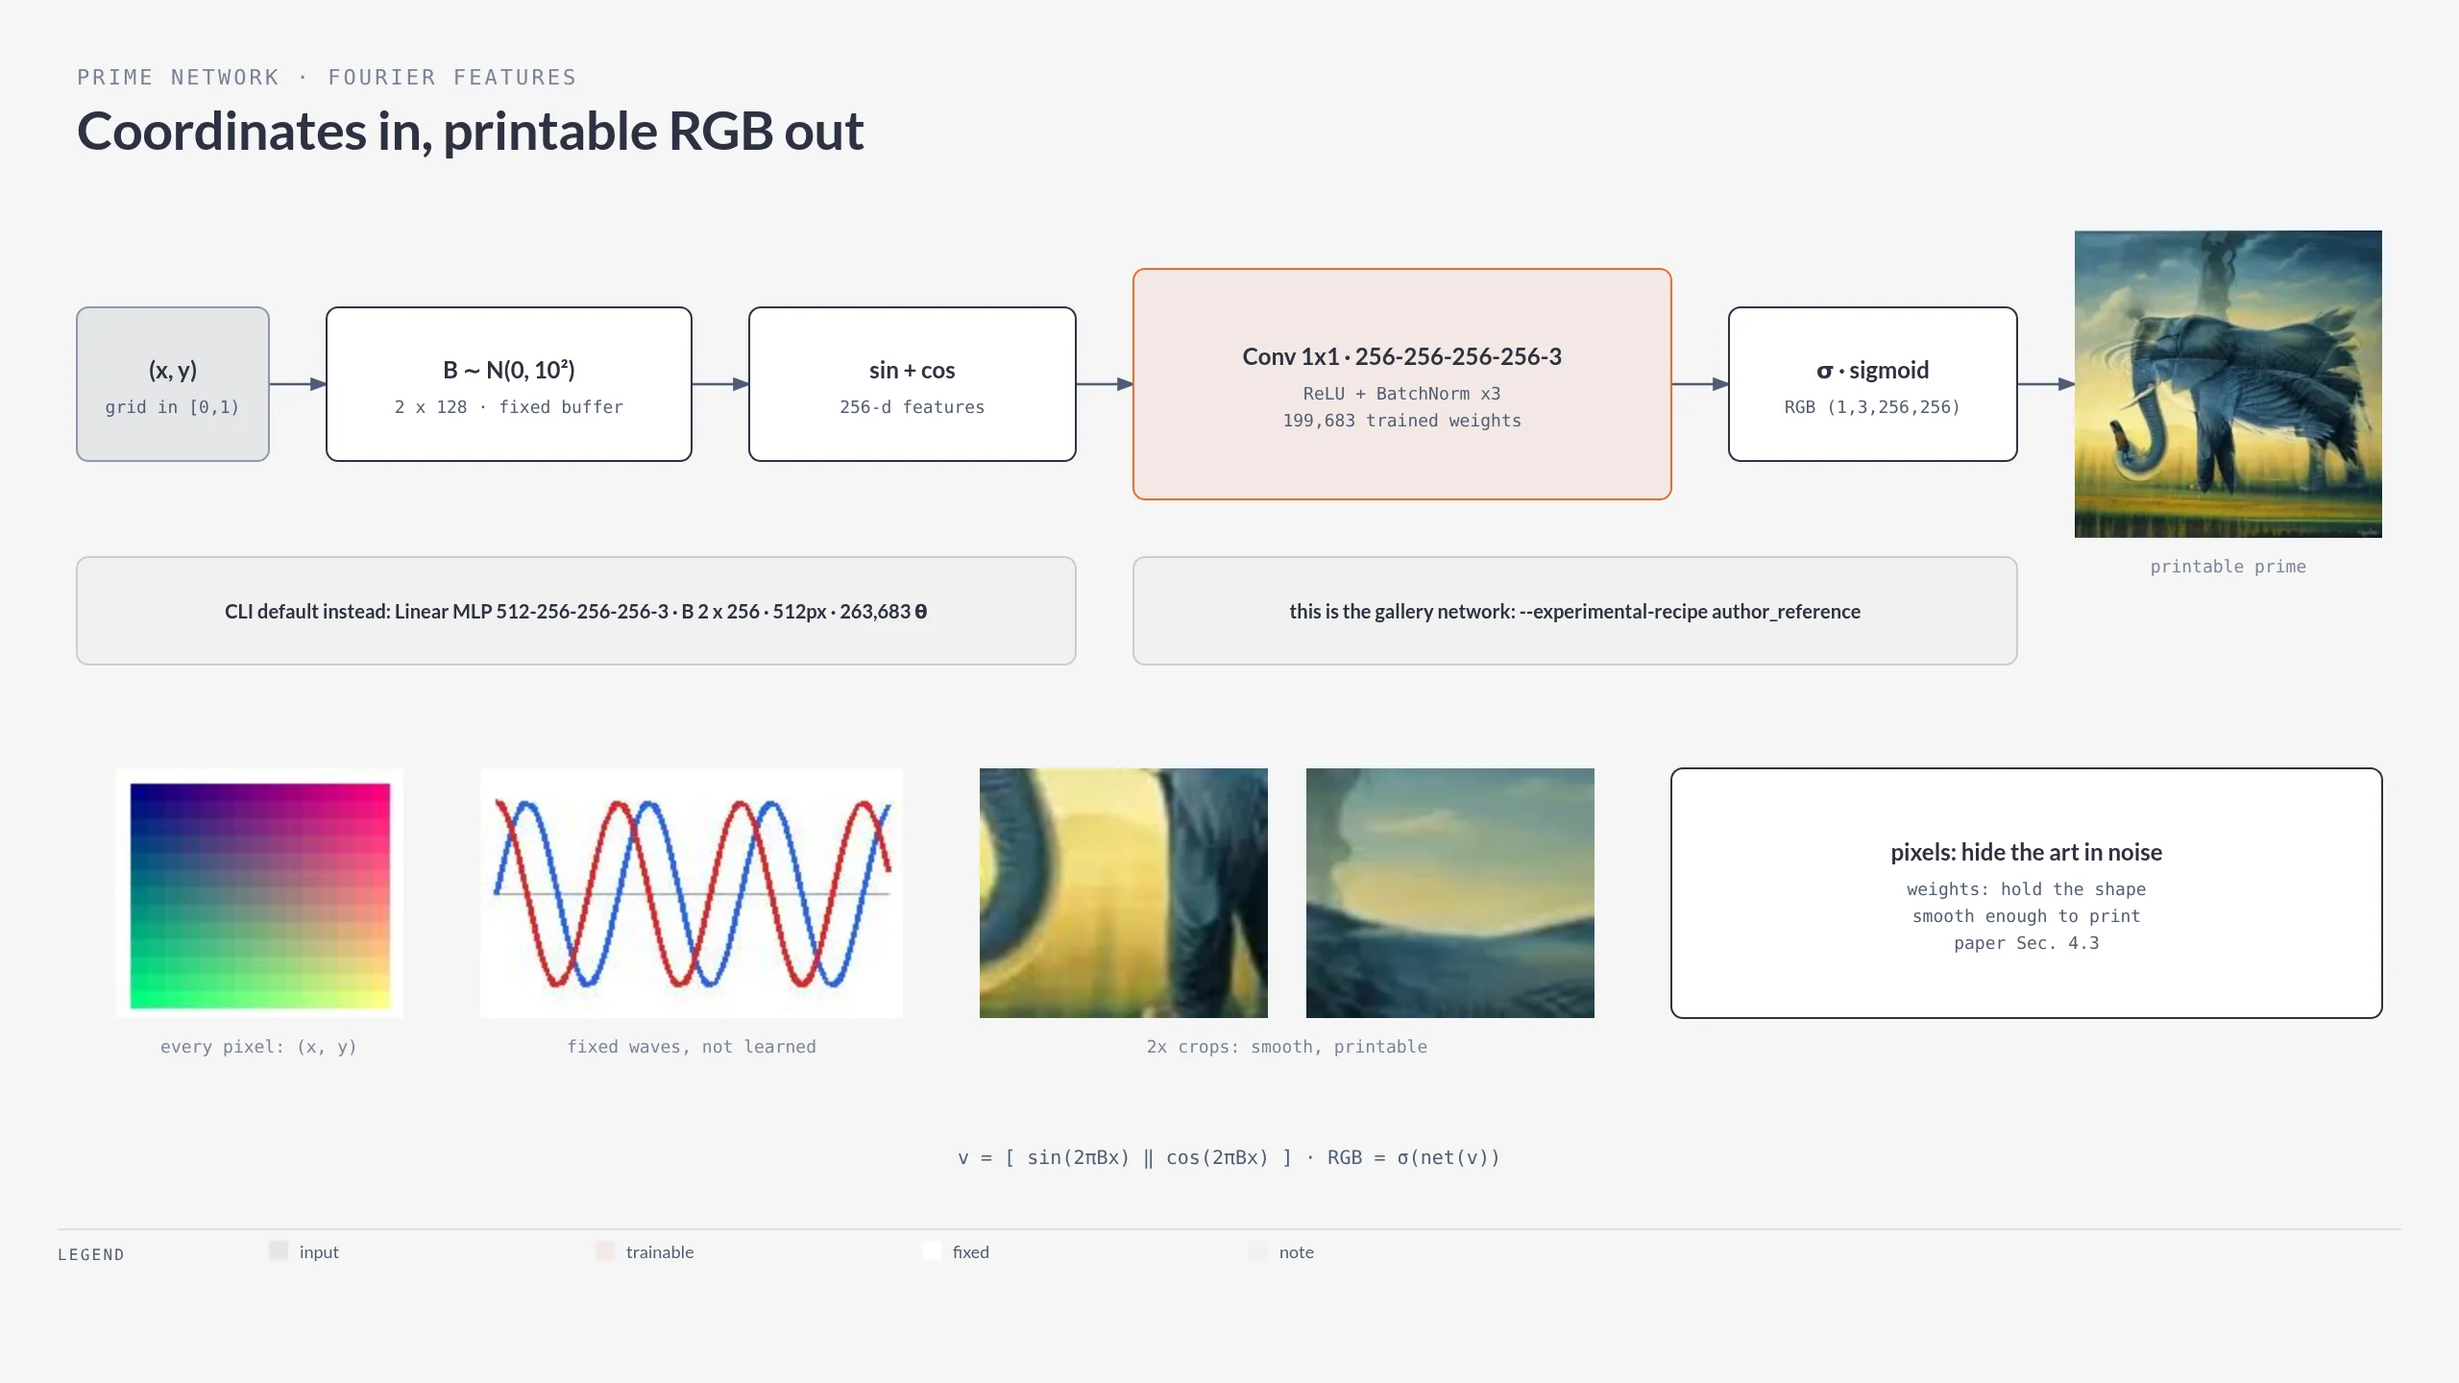
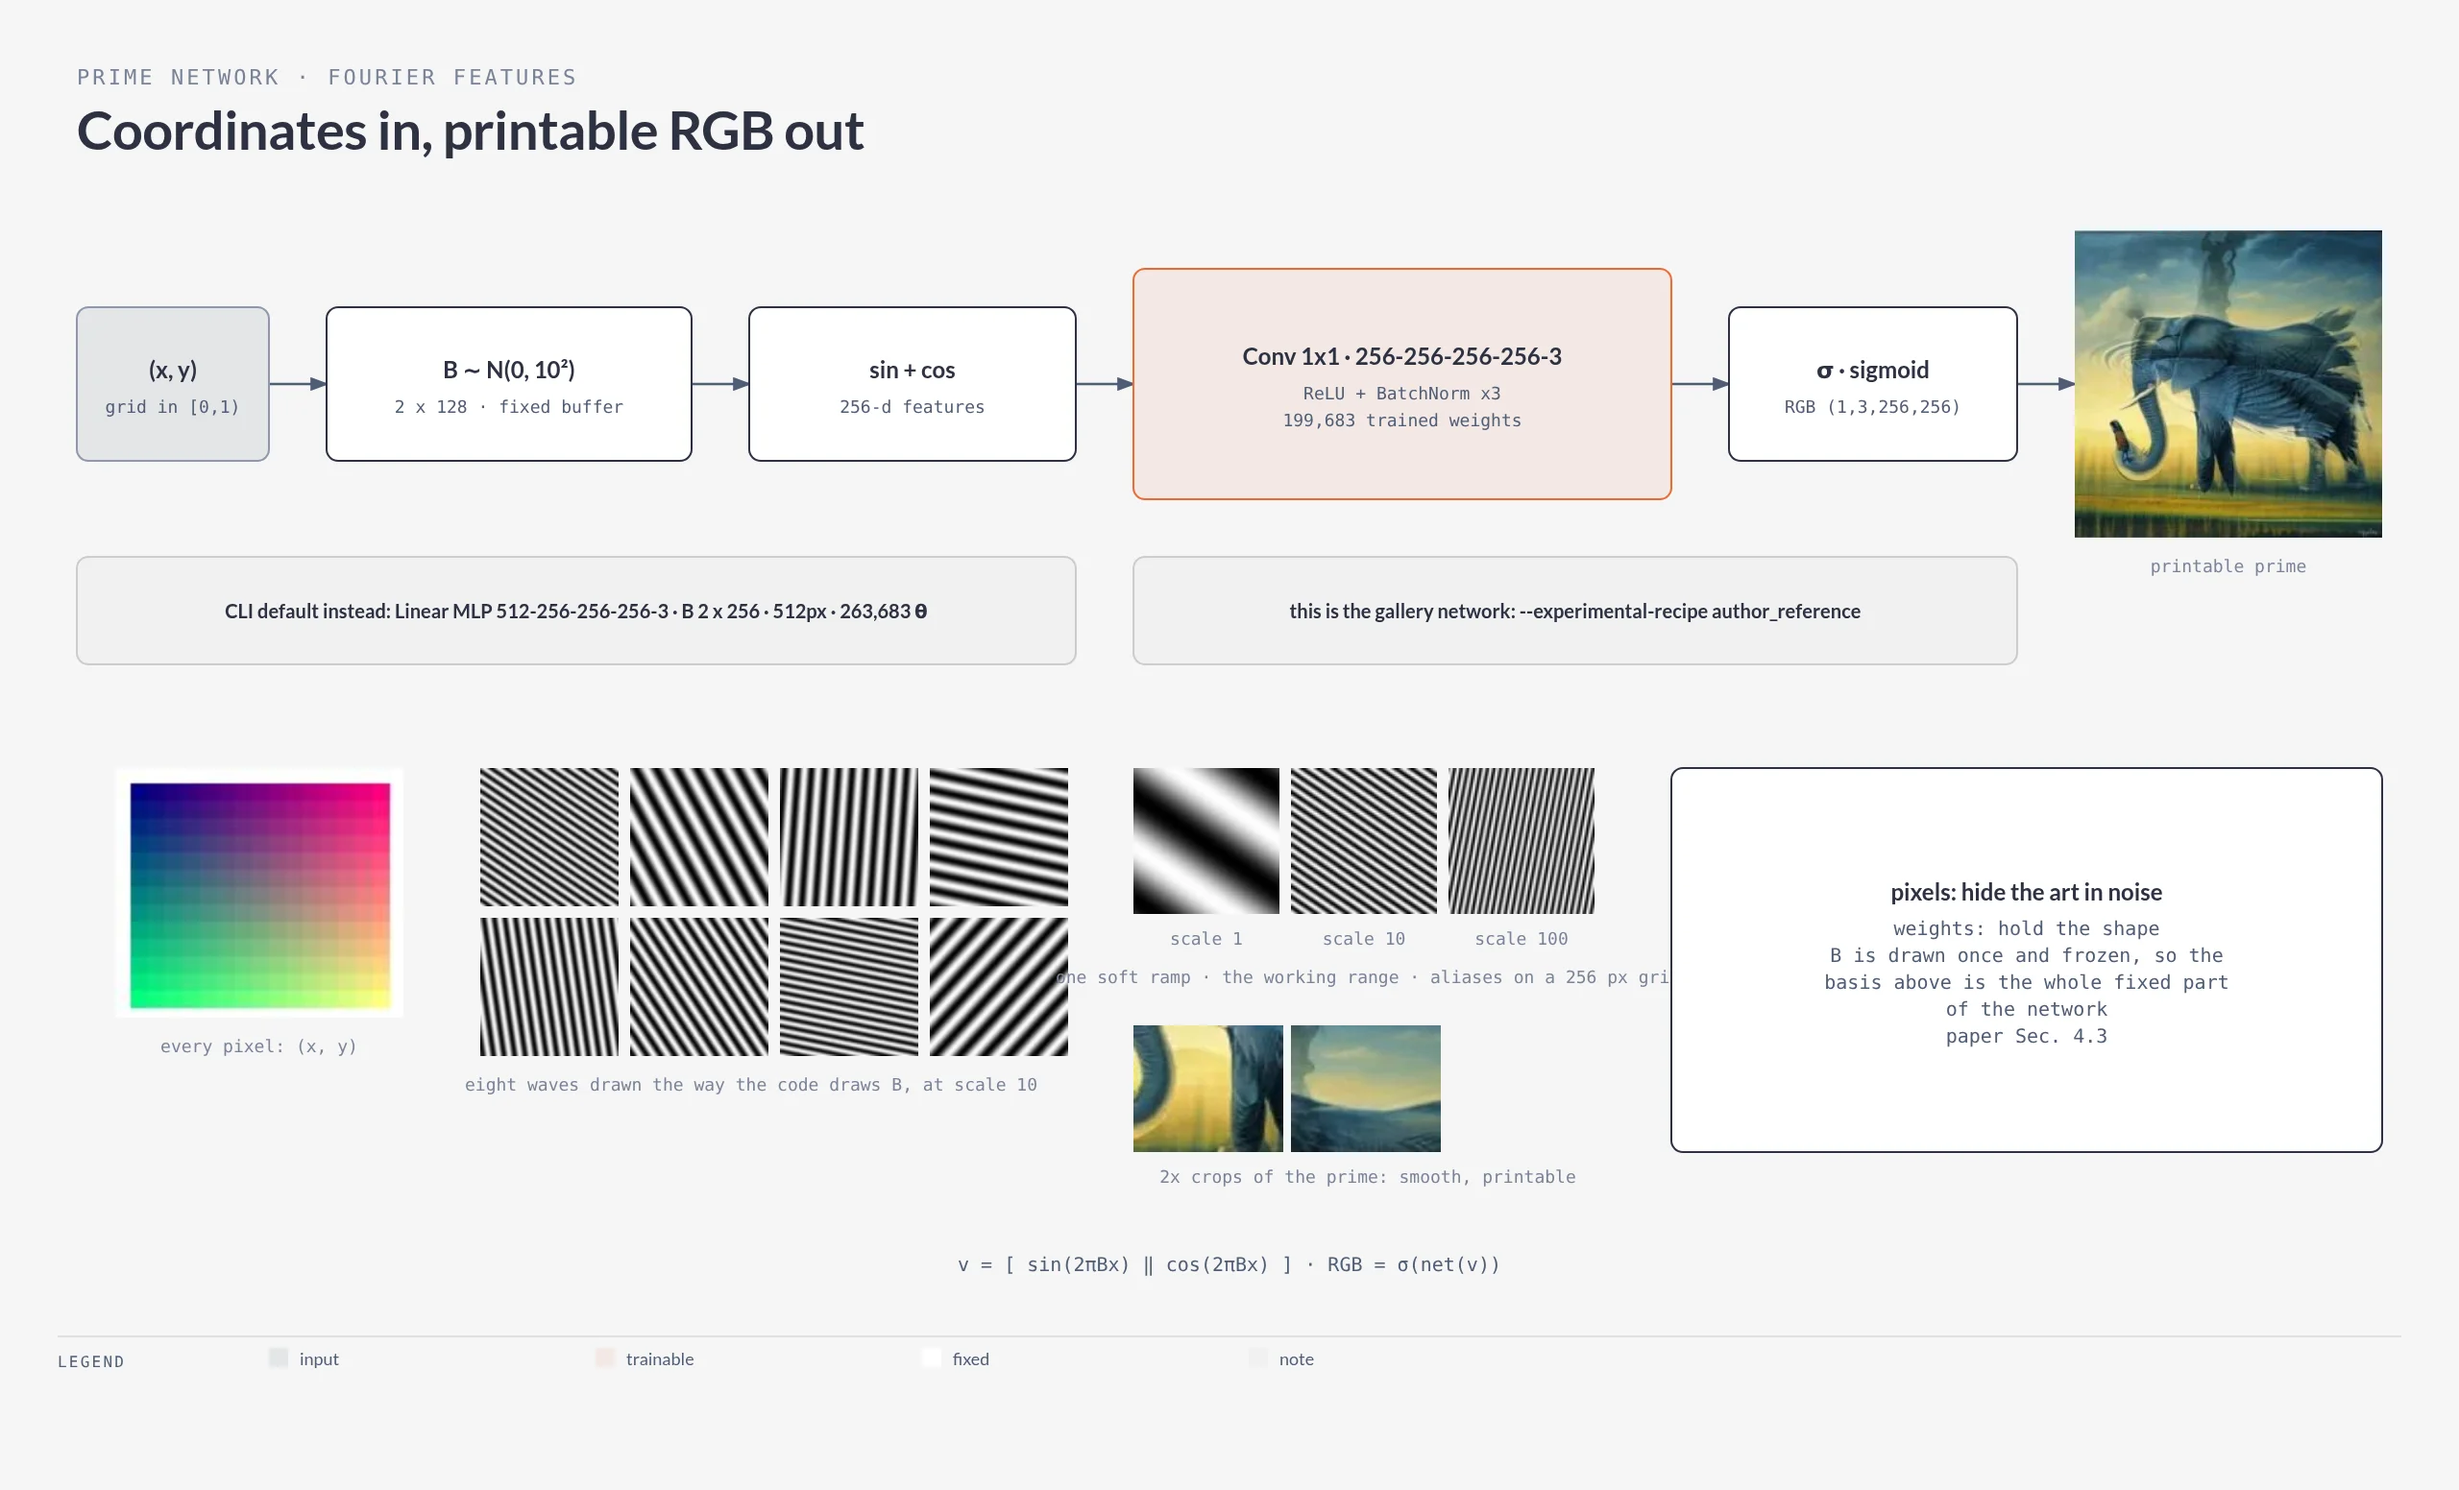
feat: draw the fixed Fourier basis and place the method among its peers
Two additions, both drawn here rather than borrowed, so the page keeps
one visual language and carries no third-party figure.

The prime network figure showed a hand-drawn sine and cosine pair. It
now shows the real thing: eight two-dimensional Fourier features
generated the way the code generates B, a Gaussian draw at scale 10 that
is never trained. Beside them a scale sweep at 1, 10 and 100 shows what
that one number decides, from a single soft ramp to a pattern that
aliases on a 256 px grid.

New figure `families`: where this method sits. Sampling-time methods
combine noise estimates from each view inside one reverse diffusion pass
and train nothing. This page optimises a prime network instead: 5000
Score Distillation steps, 26 minutes on one RX 7600 XT, then a Dream
round of 88 seconds, measured from the window-2 smoke manifest. The cost
buys arrangements that are not pixel permutations, which is how the
overlay types work at all.

Both claims about the other family come from the Visual Anagrams
abstract (Geng, Park and Owens, arXiv 2311.17919), read directly.

Fourteen figures now.

diff --git a/frontend/src/routes/illusions/+page.svelte b/frontend/src/routes/illusions/+page.svelte
@@ -19,7 +19,19 @@
 	const sections = [
 		{ id: 's8', title: 'ill.s8_title', paragraphs: ['ill.s8_p1'], gallery: true },
 		{ id: 's11', title: 'ill.s11_title', paragraphs: ['ill.s11_p1'], candidates: true },
-		{ id: 's1', title: 'ill.s1_title', paragraphs: ['ill.s1_p1', 'ill.s1_p2', 'ill.s1_p3'] },
+		{
+			id: 's1',
+			title: 'ill.s1_title',
+			paragraphs: ['ill.s1_p1', 'ill.s1_p2', 'ill.s1_p3'],
+			figures: [
+				{
+					src: '/illusions/families.webp',
+					cap: 'ill.fig_families_cap',
+					width: 2560,
+					height: 1328
+				}
+			]
+		},
 		{
 			id: 's2',
 			title: 'ill.s2_title',
@@ -49,7 +61,7 @@
 					src: '/illusions/ffn.webp',
 					cap: 'ill.fig_ffn_cap',
 					width: 2560,
-					height: 1440
+					height: 1552
 				}
 			]
 		},

diff --git a/frontend/src/lib/illusion-public-facts.test.ts b/frontend/src/lib/illusion-public-facts.test.ts
@@ -99,6 +99,7 @@ test('the public illusions route is wired', () => {
 
 test('study diagrams are exported as webp', () => {
 	const names = [
+		'families',
 		'architecture',
 		'workflow',
 		'ffn',

diff --git a/scripts/render-illusion-figures.py b/scripts/render-illusion-figures.py
@@ -23,6 +23,7 @@ import argparse
 import base64
 import io
 import math
+import random
 import subprocess
 import sys
 from pathlib import Path
@@ -270,6 +271,27 @@ def objective_panel(x, y, pw, ph):
     return "\n".join(s)
 
 
+def fourier_tile(scale, index, size=72, seed=0):
+    """One real Fourier feature: sin(2*pi*(x,y) @ B[:, index]), B ~ N(0, scale^2).
+
+    The code draws B once with torch.randn(2, features) * scale and never
+    trains it, so drawing the basis is drawing the whole fixed part.
+    """
+    rng = random.Random(seed)
+    columns = [(rng.gauss(0, 1) * scale, rng.gauss(0, 1) * scale) for _ in range(index + 1)]
+    bx, by = columns[index]
+    img = Image.new("L", (size, size))
+    pixels = []
+    for row in range(size):
+        v = row / size
+        for col in range(size):
+            u = col / size
+            value = math.sin(2 * math.pi * (u * bx + v * by))
+            pixels.append(int((value + 1) * 127.5))
+    img.putdata(pixels)
+    return _jpeg_uri(img.convert("RGB"), 80)
+
+
 # --------------------------------------------------------------- figures
 
 def fig_architecture(out):
@@ -319,21 +341,15 @@ def fig_ffn(out):
         for i in range(15):
             gx.rectangle([8 + i * 9, 8 + j * 9, 8 + (i + 1) * 9 - 1, 8 + (j + 1) * 9 - 1],
                          fill=(int(255 * i / 14), int(255 * j / 12), 128))
-    waves = Image.new("RGB", (220, 130), "white")
-    wx = ImageDraw.Draw(waves)
-    wx.line([(8, 65), (212, 65)], fill="#94a3b8", width=1)
-    wx.line([(8 + i * 2, 65 - int(48 * math.sin(i / 31.8 * 2 * math.pi))) for i in range(103)],
-            fill="#2563eb", width=3)
-    wx.line([(8 + i * 2, 65 - int(48 * math.cos(i / 31.8 * 2 * math.pi))) for i in range(103)],
-            fill="#dc2626", width=3)
     prime_img = Image.open(prime_path).convert("RGB")
-    crop_a = _jpeg_uri(prime_img.crop((60, 150, 124, 214)).resize((150, 130)))
-    crop_b = _jpeg_uri(prime_img.crop((120, 40, 184, 104)).resize((150, 130)))
+    crop_a = _jpeg_uri(prime_img.crop((60, 150, 124, 214)).resize((156, 132)))
+    crop_b = _jpeg_uri(prime_img.crop((120, 40, 184, 104)).resize((156, 132)))
 
-    w, h = 1280, 720
+    w, h = 1280, 776
     s = [svg_open("ffn", "Prime network: coordinates become printable RGB",
                   "Pixel coordinates pass fixed Fourier features and a small trained "
-                  "network. Evidence below shows smooth printable output.", w, h)]
+                  "network. Below: the real fixed basis, a scale sweep, and crops of "
+                  "the printable output.", w, h)]
     s.append(eyebrow(40, 44, "PRIME NETWORK · FOURIER FEATURES"))
     s.append(heading(40, 78, "Coordinates in, printable RGB out"))
     for x1, x2 in [(140, 170), (360, 390), (560, 590), (870, 900), (1050, 1080)]:
@@ -352,16 +368,27 @@ def fig_ffn(out):
                  None, fill=NOTE_FILL, stroke=NOTE_STROKE, name_size=10))
     s.append(f'<image href="{_jpeg_uri(grid)}" x="60" y="400" width="150" height="130"/>')
     s.append(caption(135, 548, "every pixel: (x, y)"))
-    s.append(f'<image href="{_jpeg_uri(waves)}" x="250" y="400" width="220" height="130"/>')
-    s.append(caption(360, 548, "fixed waves, not learned"))
-    s.append(f'<image href="{crop_a}" x="510" y="400" width="150" height="130"/>')
-    s.append(f'<image href="{crop_b}" x="680" y="400" width="150" height="130"/>')
-    s.append(caption(670, 548, "2x crops: smooth, printable"))
-    s.append(box(870, 400, 370, 130, "pixels: hide the art in noise",
-                 "weights: hold the shape\nsmooth enough to print\npaper Sec. 4.3"))
-    s.append(note(640, 606, "v = [ sin(2πBx) ‖ cos(2πBx) ] · RGB = σ(net(v))"))
+    for i in range(4):
+        s.append(f'<image href="{fourier_tile(10.0, i)}" x="{250 + i * 78}" y="400" '
+                 f'width="72" height="72"/>')
+        s.append(f'<image href="{fourier_tile(10.0, i + 4)}" x="{250 + i * 78}" y="478" '
+                 f'width="72" height="72"/>')
+    s.append(caption(391, 568, "eight waves drawn the way the code draws B, at scale 10"))
+    for i, (scale, label) in enumerate(((1.0, "scale 1"), (10.0, "scale 10"), (100.0, "scale 100"))):
+        s.append(f'<image href="{fourier_tile(scale, 0)}" x="{590 + i * 82}" y="400" '
+                 f'width="76" height="76"/>')
+        s.append(caption(628 + i * 82, 492, label))
+    s.append(caption(712, 512, "one soft ramp · the working range · aliases on a 256 px grid"))
+    s.append(f'<image href="{crop_a}" x="590" y="534" width="78" height="66"/>')
+    s.append(f'<image href="{crop_b}" x="672" y="534" width="78" height="66"/>')
+    s.append(caption(712, 616, "2x crops of the prime: smooth, printable"))
+    s.append(box(870, 400, 370, 200, "pixels: hide the art in noise",
+                 "weights: hold the shape\nB is drawn once and frozen, so the\n"
+                 "basis above is the whole fixed part\nof the network\npaper Sec. 4.3",
+                 sub_size=10))
+    s.append(note(640, 662, "v = [ sin(2πBx) ‖ cos(2πBx) ] · RGB = σ(net(v))"))
     s.append(legend([(INPUT_FILL, "input"), (ACCENT_TINT, "trainable"),
-                     ("#ffffff", "fixed"), (NOTE_FILL, "note")], w, 648))
+                     ("#ffffff", "fixed"), (NOTE_FILL, "note")], w, 704))
     s.append("</svg>")
     write(out, "ffn", "\n".join(s), w, h)
 
@@ -923,7 +950,49 @@ def fig_symbols(out):
     write(out, "symbols", "\n".join(s), w, h)
 
 
+def fig_families(out):
+    """Two families of illusion method, drawn from each paper's own description."""
+    w, h = 1280, 664
+    s = [svg_open("families", "Two families of illusion method",
+                  "Sampling-time methods combine noise estimates across views inside one "
+                  "diffusion pass. Optimisation-time methods train an image until every "
+                  "view scores well. This page is the second kind.", w, h)]
+    s.append(eyebrow(40, 44, "WHERE THIS METHOD SITS"))
+    s.append(heading(40, 78, "Two ways to make one image read twice"))
+    s.append(box(40, 120, 580, 44, "sampling time", None, fill=NOTE_FILL, stroke=NOTE_STROKE))
+    s.append(box(660, 120, 580, 44, "optimisation time · this page", None,
+                 fill=ACCENT_TINT, stroke=ACCENT))
+    left = [
+        ("one reverse diffusion pass", "no image parameters are trained"),
+        ("at each step", "score each view, undo the view,\naverage the estimates, denoise"),
+        ("the cost", "one sampling pass, seconds"),
+        ("the constraint", "views must be orthogonal transforms:\nflips, rotations, pixel permutations"),
+    ]
+    right = [
+        ("thousands of optimiser steps", "a prime network is trained"),
+        ("at each step", "render the views, score each one,\npush the residual back into θ"),
+        ("the cost", "5000 SDS steps, 26 minutes on this card,\nthen a Dream round of 88 seconds"),
+        ("the constraint", "the arrangement only has to be\ndifferentiable, so overlays are in scope"),
+    ]
+    y = 190
+    for (lname, lsub), (rname, rsub) in zip(left, right):
+        rows = max(len(lsub.split("\n")), len(rsub.split("\n")))
+        height = 44 + rows * 16
+        s.append(box(40, y, 580, height, lname, lsub, sub_size=10))
+        s.append(box(660, y, 580, height, rname, rsub, fill="#ffffff", stroke=ACCENT, sub_size=10))
+        y += height + 14
+    s.append(box(40, y, 1200, 46,
+                 "Visual Anagrams (Geng, Park and Owens, arXiv 2311.17919) is the sampling-time "
+                 "family. Diffusion Illusions (Burgert et al.) is this one.",
+                 None, fill=NOTE_FILL, stroke=NOTE_STROKE, name_size=11))
+    s.append(legend([(NOTE_FILL, "the other family"), (ACCENT_TINT, "what this page does")],
+                    w, y + 82))
+    s.append("</svg>")
+    write(out, "families", "\n".join(s), w, h)
+
+
 FIGURES = {
+    "families": fig_families,
     "architecture": fig_architecture,
     "ffn": fig_ffn,
     "sds": fig_sds,

diff --git a/docs/illusions-study.md b/docs/illusions-study.md
@@ -16,6 +16,10 @@ two figures and `--out <dir>` to write somewhere else. Photos read from
 under `.local/`. Without those files, the structure still renders
 with dashed wells.
 
+<!-- figure: families -->
+*Figure: the two families. Sampling-time methods such as Visual Anagrams (Geng, Park and Owens, arXiv 2311.17919) combine noise estimates from each view inside one reverse diffusion pass and train nothing. This page optimises a prime network instead: 5000 Score Distillation steps, 26 minutes on one RX 7600 XT, then a Dream round of 88 seconds. The cost buys arrangements that are not pixel permutations, which is how the overlay types work.*
+
+
 The method is Burgert et al.,
 [Diffusion Illusions](https://diffusionillusions.com). Optimize printable
 prime images so a fixed physical arrangement of them shows a different
